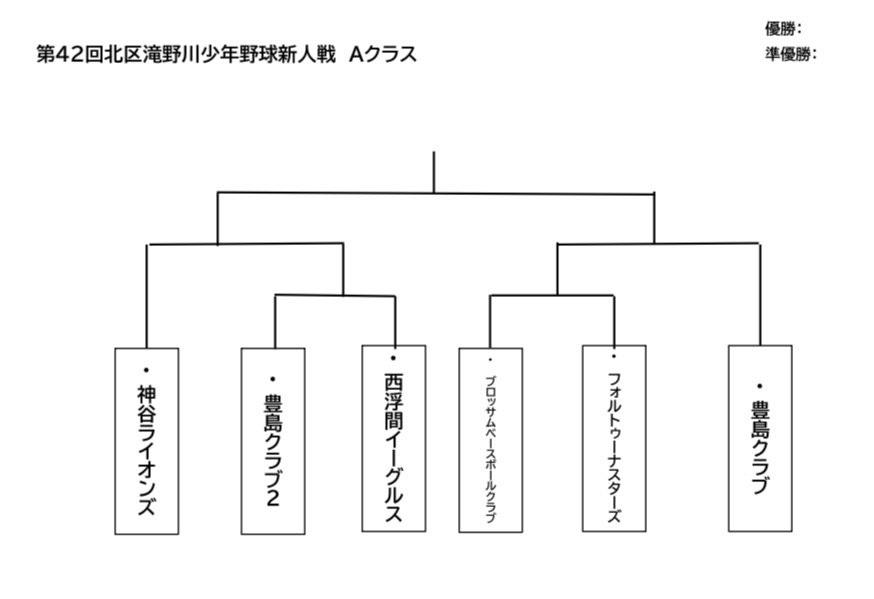
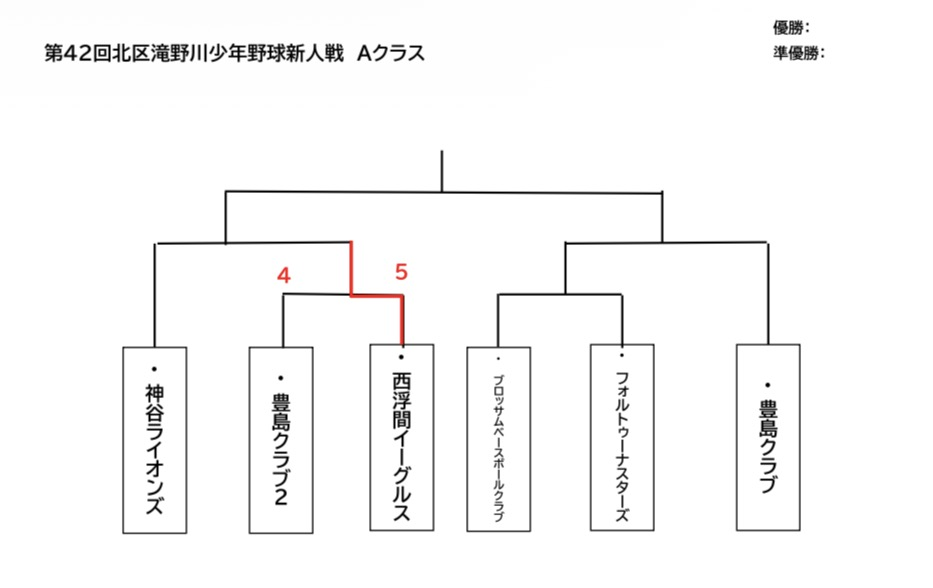
Replace the 42nd rookie tournament brackets.
Use the supplied A, B, and C class charts as-is, and cache-bust the page references with v=20261126.

Changed region(s): [[0.1236, 0.2449, 0.9268, 0.9184], [0.0309, 0.0612, 0.4943, 0.1224], [0.8032, 0.0306, 0.9268, 0.1224]]

diff --git a/tournament/index.html b/tournament/index.html
@@ -16,7 +16,7 @@
   <meta property="og:title" content="トーナメント表・試合結果｜北区滝野川少年野球連盟">
   <meta property="og:description" content="第42回新人戦の試合日程とトーナメント表、第45回春季大会のトーナメント表、第41回新人戦・第44回春季大会の試合結果です。">
   <meta property="og:url" content="https://yoji-t.github.io/takinogawa-baseball/tournament/">
-  <meta property="og:image" content="https://yoji-t.github.io/takinogawa-baseball/images/tournament-42nd-rookie-a-class.jpg">
+  <meta property="og:image" content="https://yoji-t.github.io/takinogawa-baseball/images/tournament-42nd-rookie-a-class.jpg?v=20261126">
   <meta property="og:image:alt" content="第42回 新人戦 Aクラスのトーナメント表">
   <meta name="twitter:card" content="summary_large_image">
   <meta name="theme-color" content="#12382a">
@@ -63,7 +63,7 @@
         "isPartOf": { "@id": "https://yoji-t.github.io/takinogawa-baseball/#website" },
         "about": { "@id": "https://yoji-t.github.io/takinogawa-baseball/#org" },
         "dateModified": "2026-11-26",
-        "primaryImageOfPage": "https://yoji-t.github.io/takinogawa-baseball/images/tournament-42nd-rookie-a-class.jpg"
+        "primaryImageOfPage": "https://yoji-t.github.io/takinogawa-baseball/images/tournament-42nd-rookie-a-class.jpg?v=20261126"
       },
       {
         "@type": "BreadcrumbList",
@@ -244,8 +244,8 @@
 
         <h3 id="dai42-a">第42回 新人戦 Aクラス</h3>
         <figure class="photo bracket">
-          <a class="zoom" href="../images/tournament-42nd-rookie-a-class.jpg" data-wide="true" data-caption="第42回 新人戦 Aクラス">
-            <img src="../images/tournament-42nd-rookie-a-class.jpg" width="874" height="599" alt="第42回 新人戦 Aクラスのトーナメント表" loading="lazy" decoding="async">
+          <a class="zoom" href="../images/tournament-42nd-rookie-a-class.jpg?v=20261126" data-wide="true" data-caption="第42回 新人戦 Aクラス">
+            <img src="../images/tournament-42nd-rookie-a-class.jpg?v=20261126" width="933" height="588" alt="第42回 新人戦 Aクラスのトーナメント表" loading="lazy" decoding="async">
             <span class="zoom-hint">拡大</span>
           </a>
           <figcaption>第42回 新人戦 Aクラス</figcaption>
@@ -253,8 +253,8 @@
 
         <h3 id="dai42-b">第42回 新人戦 Bクラス</h3>
         <figure class="photo bracket">
-          <a class="zoom" href="../images/tournament-42nd-rookie-b-class.jpg" data-wide="true" data-caption="第42回 新人戦 Bクラス">
-            <img src="../images/tournament-42nd-rookie-b-class.jpg" width="1170" height="646" alt="第42回 新人戦 Bクラスのトーナメント表" loading="lazy" decoding="async">
+          <a class="zoom" href="../images/tournament-42nd-rookie-b-class.jpg?v=20261126" data-wide="true" data-caption="第42回 新人戦 Bクラス">
+            <img src="../images/tournament-42nd-rookie-b-class.jpg?v=20261126" width="1155" height="659" alt="第42回 新人戦 Bクラスのトーナメント表" loading="lazy" decoding="async">
             <span class="zoom-hint">拡大</span>
           </a>
           <figcaption>第42回 新人戦 Bクラス</figcaption>
@@ -262,8 +262,8 @@
 
         <h3 id="dai42-c">第42回 新人戦 Cクラス</h3>
         <figure class="photo bracket">
-          <a class="zoom" href="../images/tournament-42nd-rookie-c-class.jpg" data-wide="true" data-caption="第42回 新人戦 Cクラス">
-            <img src="../images/tournament-42nd-rookie-c-class.jpg" width="1170" height="670" alt="第42回 新人戦 Cクラスのトーナメント表" loading="lazy" decoding="async">
+          <a class="zoom" href="../images/tournament-42nd-rookie-c-class.jpg?v=20261126" data-wide="true" data-caption="第42回 新人戦 Cクラス">
+            <img src="../images/tournament-42nd-rookie-c-class.jpg?v=20261126" width="1170" height="664" alt="第42回 新人戦 Cクラスのトーナメント表" loading="lazy" decoding="async">
             <span class="zoom-hint">拡大</span>
           </a>
           <figcaption>第42回 新人戦 Cクラス</figcaption>
